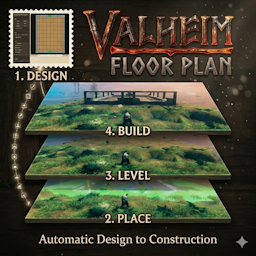
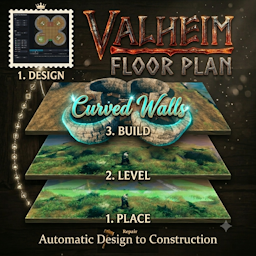
Version 2.1.0 : FlexiWalls inc examples and bug fixes

diff --git a/README.md b/README.md
@@ -88,6 +88,13 @@ This package includes two components:
 
 The FlexiWall tool draws curved or straight walls along any path in the Designer. Walls are built in-game as stacked stone pieces following the arc, with the same brick-bond row offset as regular walls.
 
+| Designer layout | In-game result |
+|---|---|
+| ![Shamrock layout in the Designer](https://raw.githubusercontent.com/AlexDroz/ValheimFloorPlan/master/images/Ex7_6a.png) | ![Completed shamrock build in-game](https://raw.githubusercontent.com/AlexDroz/ValheimFloorPlan/master/images/Ex7_6b.png) |
+
+
+**FlexiWall Examples video:** https://youtu.be/N8CvcGpX-BQ
+
 ### Drawing a FlexiWall
 
 1. Select the **FlexiWall** tool from the piece selector.
@@ -272,26 +279,32 @@ All values below are configurable in that file.
 
 ## Sample Plans
 
-The `samples/` folder contains ready-to-use `.vfp` examples:
+The `samples/` folder contains ready-to-use examples.
 
-- `samples/myfloorplan4x4.vfp`
-- `samples/myfloorplan8x8.vfp`
-- `samples/myfloorplan12x12.vfp`
-- `samples/myfloorplan16x16.vfp`
-- `samples/myfloorplan16x20.vfp`
-- `samples/myfloorplan20x20.vfp`
-- `samples/myfloorplan20x20_double.vfp`
-- `samples/myfloorplan24x24.vfp`
-- `samples/myfloorplan28x28.vfp`
-- `samples/StarBase20x20.vfp`
-- `samples/ThreeFloorBuild_Level_1_16x20.vfp`
-- `samples/ThreeFloorBuild_Level_2_16x20.vfp`
-- `samples/ThreeFloorBuild_Level_3_16x20.vfp`
-- `samples/Workbenches_16x20.vfp`
-- `samples/Workbenches_and_Staircase_16x20.vfp`
-- `samples/Workbenches_and_Staircase_ALT_16x20.vfp`
-- `samples/RoundHouse.vfp` — FlexiWall arc walls forming a round house layout
-- `samples/Circle.vfp` — single closed FlexiWall ring
+**Blank starter grids:**
+
+- `samples/myfloorplan4x4.vfp`, `myfloorplan8x8.vfp`, `myfloorplan12x12.vfp`, `myfloorplan16x16.vfp`, `myfloorplan16x20.vfp`, `myfloorplan20x20.vfp`, `myfloorplan20x20_double.vfp`, `myfloorplan24x24.vfp`, `myfloorplan28x28.vfp` — empty grids in common sizes
+
+**Preset bundles (`.vpfset`) — load with `Alt+F8` in-game:**
+
+- `samples/ExampleRoundHouse.vpfset` — three-level FlexiWall round house (20×20); level files: `RoundHouse_Level_1/2/3_20x20.vfp`
+- `samples/ExampleCirclular.vpfset` — three-level circular FlexiWall build (20×20); level files: `Circle_Level_1/2/3_20x20.vfp`
+- `samples/ExampleShamrock.vpfset` — three-level shamrock multi-arc FlexiWall build (20×20); level files: `Shamrock_Level_1/2/3_20x20.vfp`
+- `samples/ExampleShamrockGroundFloorOnly.vpfset` — ground-floor-only shamrock layout
+- `samples/ExampleCosyHouse.vpfset` — cosy home with beds, hearth, and workbenches; level files: `CosyHome_Level_1_20x20.vfp`
+- `samples/ExampleHeart.vpfset` — three-level heart-shaped FlexiWall build (20×20); level files: `Heart_Level_1/2/3_20x20.vfp`
+- `samples/ExampleTurrets.vpfset` — three-level build with FlexiWall turret towers (20×20); level files: `Turrets_level_1/2/3_20x20.vfp`
+- `samples/ExampleThreeFloorBuild.vpfset` — three-level rectangular build (16×20); level files: `ThreeFloorBuild_Level_1/2/3_16x20.vfp`
+
+**Standalone single-level plans:**
+
+- `samples/StarBase20x20.vfp` — star-shaped base layout
+- `samples/RoundHouse.vfp` — single-level FlexiWall round house
+- `samples/Target.vfp` — concentric-ring FlexiWall target layout
+- `samples/Turrets.vfp` — single-level turret layout
+- `samples/Workbenches_16x20.vfp` — 16×20 plan with workbenches
+- `samples/Workbenches_and_Staircase_16x20.vfp` — 16×20 with workbenches and staircase
+- `samples/Workbenches_and_Staircase_ALT_16x20.vfp` — alternate staircase placement
 
 ## Tips
 
